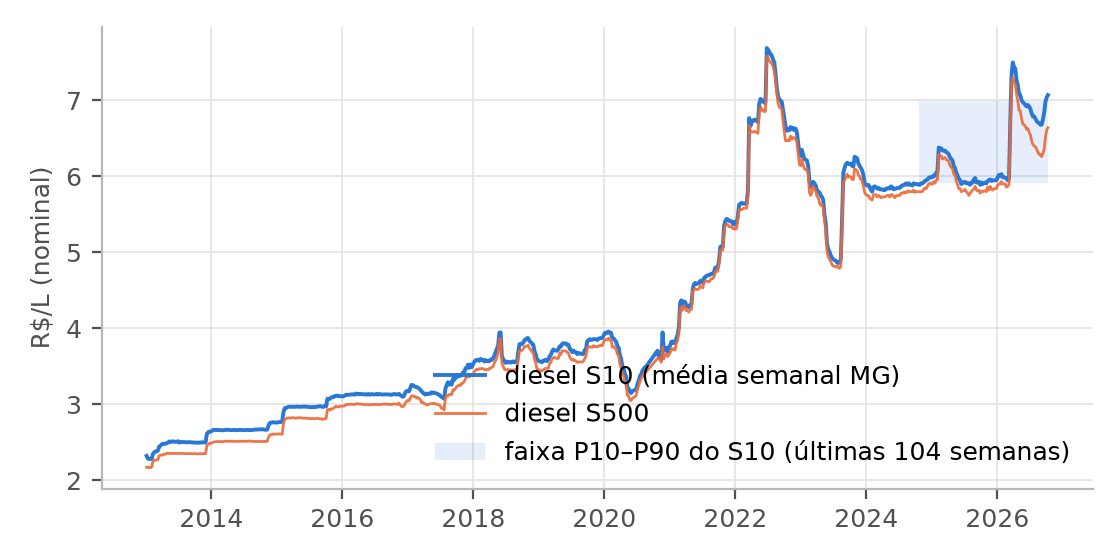
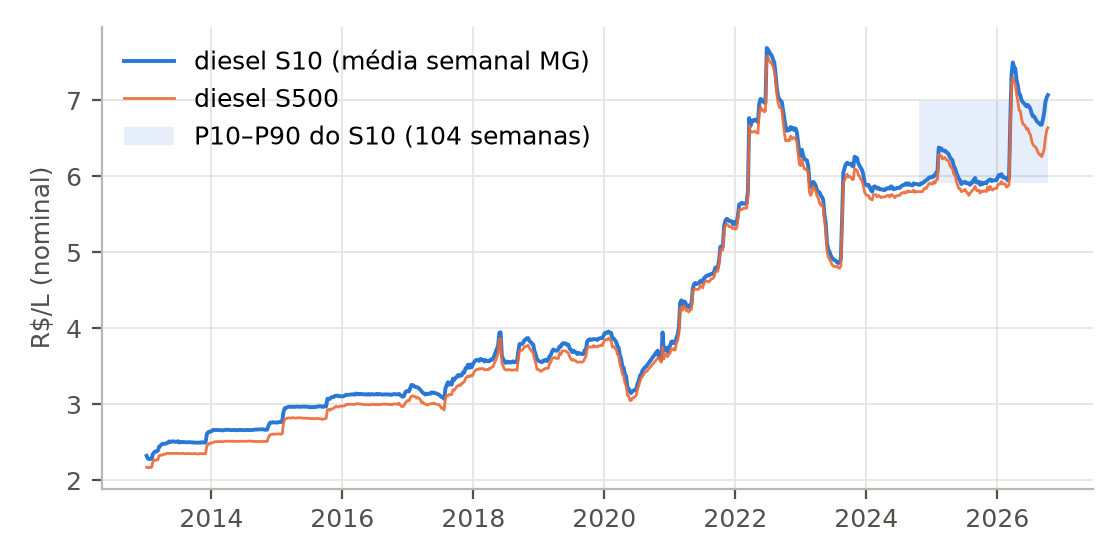
fix(fase1): legendas, rotulos dos terminais e macros calculadas
Faixa P10-P90 restrita a janela de 104 semanas, rotulos curtos dos
recintos, grade atras das barras e novas macros (razao de binarias,
peso do diesel no custo por km, faixa de rendimento) para que todo
numero citado no relatorio venha do script.

diff --git a/Estudos para o TP/fase1/analise_exploratoria.py b/Estudos para o TP/fase1/analise_exploratoria.py
@@ -204,6 +204,8 @@ def analisar_producao():
     q1, q3 = rend.quantile([0.25, 0.75])
     out = a[(rend < q1 - 1.5 * (q3 - q1)) | (rend > q3 + 1.5 * (q3 - q1))]
     macro("RendMed", br(rend.median()))
+    macro("RendMin", br(rend.min()))
+    macro("RendMax", br(rend.max()))
     macro("RendOut", str(len(out)))
 
     piv = sul.pivot_table(index="cod_ibge", columns="ano", values="producao_t")
@@ -238,6 +240,8 @@ def analisar_diesel():
     for nome, p in (("baixo (P10)", p10), ("base (P50)", p50), ("alto (P90)", p90)):
         linhas.append({"Cenário": nome, "Diesel S10 (R\\$/L)": br(p, 2),
                        "Custo por km (R\\$/km)": br(C_KM + CONSUMO * p, 2)})
+    macro("CustoKmDif", br(100 * (CONSUMO * (p90 - p10)) / (C_KM + CONSUMO * p10), 1))
+    macro("PctDieselKm", br(100 * CONSUMO * p50 / (C_KM + CONSUMO * p50)))
     tabela_tex("diesel_cenarios", pd.DataFrame(linhas), "lrr",
                "Cenários de preço do diesel S10 em MG (últimas 104 semanas) e custo por quilômetro.",
                "tab:diesel",
@@ -248,9 +252,9 @@ def analisar_diesel():
     ax.plot(s10.index, s10.values, color=AZUL, lw=1.4, label="diesel S10 (média semanal MG)")
     ax.plot(s500.index, s500.values, color=LARANJA, lw=1.0, alpha=0.9, label="diesel S500")
     ax.fill_between([j.index.min(), fim], p10, p90, color=AZUL, alpha=0.12, lw=0,
-                    label="faixa P10--P90 do S10 (últimas 104 semanas)".replace("--", "–"))
+                    label="P10–P90 do S10 (104 semanas)")
     ax.set_ylabel("R$/L (nominal)")
-    ax.legend(loc="lower right")
+    ax.legend(loc="upper left")
     salvar(fig, "diesel")
 
 
@@ -280,7 +284,8 @@ def analisar_distancias():
     term = [c for c in ids if c.startswith("T_")]
     linhas = []
     for tt in term:
-        nome = N.set_index("no").loc[tt, "nome"]
+        nome = {"T_JF": "Juiz de Fora (porto seco)", "T_UBA": "Uberaba (porto seco)", "T_VAG": "Varginha (CLIA)",
+                "T_PAL": "Pouso Alegre (CLIA)", "T_BET": "Betim (CLIA)"}.get(tt, N.set_index("no").loc[tt, "nome"])
         linhas.append({"Terminal": nome,
                        "Dist. média (km)": br(d.loc[col, tt].mean()),
                        "Dist. mín.--máx. (km)": f"{br(d.loc[col, tt].min())}--{br(d.loc[col, tt].max())}",
@@ -324,6 +329,9 @@ def tamanho_instancia(sul_ano):
                     ("todos os produtores", int(MACROS["NMunSul"]))):
         nbin = n + n * (n - 1) + n * m
         ncons = 2 * n + m + 1 + 2 * n * (n - 1) + n * m
+        if n == int(MACROS["NSulOitenta"]):
+            macro("BinOitenta", br(nbin))
+            macro("RazaoBin", br(nbin / (8 + 8 * 7 + 8 * m)))
         linhas.append({"Escopo": nome, "$n$": n, "$m$": m, "Binárias": br(nbin), "Contínuas": br(2 * n),
                        "Restrições (aprox.)": br(ncons)})
     tabela_tex("tamanho", pd.DataFrame(linhas), "lrrrrr",

diff --git a/Estudos para o TP/fase1/relatorio/valores.tex b/Estudos para o TP/fase1/relatorio/valores.tex
@@ -29,6 +29,8 @@
 \newcommand{\ErroIdentMed}{0,00}
 \newcommand{\ErroIdentMax}{0,1}
 \newcommand{\RendMed}{1.492}
+\newcommand{\RendMin}{500}
+\newcommand{\RendMax}{3.303}
 \newcommand{\RendOut}{31}
 \newcommand{\CVMed}{16,7}
 \newcommand{\CVPnov}{31,0}
@@ -42,6 +44,8 @@
 \newcommand{\DieselPnov}{6,99}
 \newcommand{\DieselSpread}{-2,6}
 \newcommand{\PostosMed}{309}
+\newcommand{\CustoKmDif}{8,4}
+\newcommand{\PctDieselKm}{46}
 \newcommand{\NNosOSRM}{36}
 \newcommand{\NParesOSRM}{1.254}
 \newcommand{\CircMed}{1,39}
@@ -58,3 +62,5 @@
 \newcommand{\DiasUteis}{250}
 \newcommand{\CapQ}{30}
 \newcommand{\NOtimoNivelUm}{8}
+\newcommand{\BinOitenta}{2.250}
+\newcommand{\RazaoBin}{22}

diff --git a/Estudos para o TP/fase1/relatorio/tabelas/dist_terminais.tex b/Estudos para o TP/fase1/relatorio/tabelas/dist_terminais.tex
@@ -7,11 +7,11 @@
 \toprule
 Terminal & Dist. média (km) & Dist. mín.--máx. (km) & Tempo médio (h) \\
 \midrule
-Porto Seco de Juiz de Fora (Multiterminais) & 413 & 280--623 & 6,7 \\
-Porto Seco do Triângulo (EADI Uberaba) & 333 & 124--473 & 4,7 \\
-CLIA Varginha & 128 & 0--318 & 2,1 \\
-CLIA Pouso Alegre & 177 & 60--377 & 2,8 \\
-CLIA Betim (TORA) & 331 & 229--453 & 4,7 \\
+Juiz de Fora (porto seco) & 413 & 280--623 & 6,7 \\
+Uberaba (porto seco) & 333 & 124--473 & 4,7 \\
+Varginha (CLIA) & 128 & 0--318 & 2,1 \\
+Pouso Alegre (CLIA) & 177 & 60--377 & 2,8 \\
+Betim (CLIA) & 331 & 229--453 & 4,7 \\
 \bottomrule
 \end{tabular}
 \end{table}
